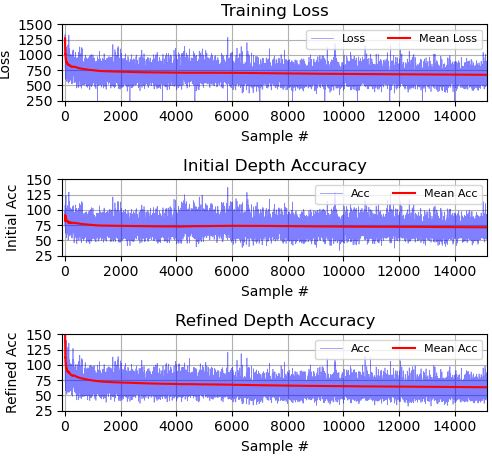
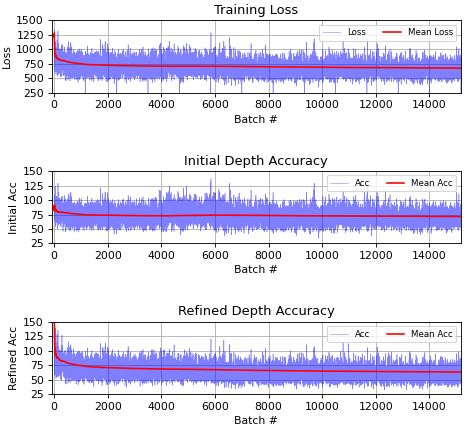
updated plot stats.

diff --git a/scripts/plot_stats.py b/scripts/plot_stats.py
@@ -1,4 +1,4 @@
-from torch import load
+from torch import load, device
 from os.path import join
 import numpy as np
 import matplotlib.pyplot as plt
@@ -6,7 +6,7 @@ import matplotlib.pyplot as plt
 def plot_stats(ckpt):
 
 
-    checkpoint = load(ckpt)
+    checkpoint = load(ckpt, map_location=device('cpu'))
 
     loss  = checkpoint['loss']
     acc_1 = checkpoint['acc_1']
@@ -39,7 +39,7 @@ def plot_stats(ckpt):
 
     fig.add_subplot(3,1,1)
     plt.title("Training Loss")
-    plt.xlabel("Sample #")
+    plt.xlabel("Batch #")
     plt.ylabel("Loss")
     plt.plot(xvals, plotloss, label='Loss', color='b',alpha=0.5, linewidth=0.5)
     plt.plot(xvals_mean, plotloss_mean, label='Mean Loss', color='r')
@@ -52,7 +52,7 @@ def plot_stats(ckpt):
 
     fig.add_subplot(3,1,2)
     plt.title("Initial Depth Accuracy")
-    plt.xlabel("Sample #")
+    plt.xlabel("Batch #")
     plt.ylabel("Initial Acc")
     plt.plot(xvals, plotacc_1, label='Acc', color='b',alpha=0.5, linewidth=0.5)
     plt.plot(xvals_mean, plotacc_1_mean, label='Mean Acc', color='r')
@@ -65,7 +65,7 @@ def plot_stats(ckpt):
 
     fig.add_subplot(3,1,3)
     plt.title("Refined Depth Accuracy")
-    plt.xlabel("Sample #")
+    plt.xlabel("Batch #")
     plt.ylabel("Refined Acc")
     plt.plot(xvals, plotacc_2, label='Acc', color='b',alpha=0.5, linewidth=0.5)
     plt.plot(xvals_mean, plotacc_2_mean, label='Mean Acc', color='r')
